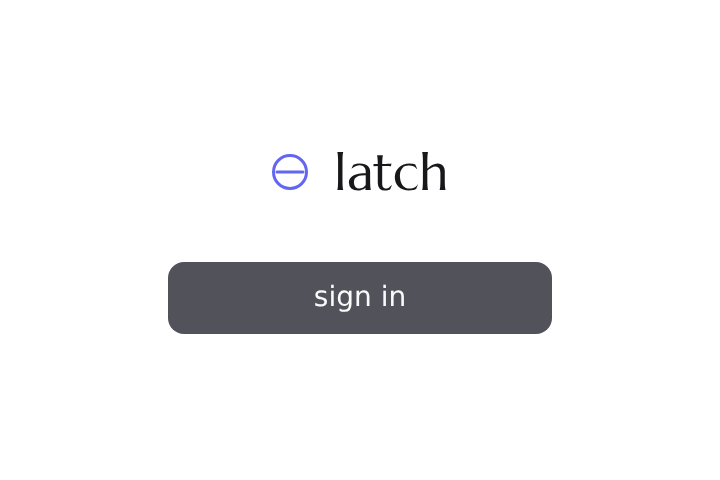
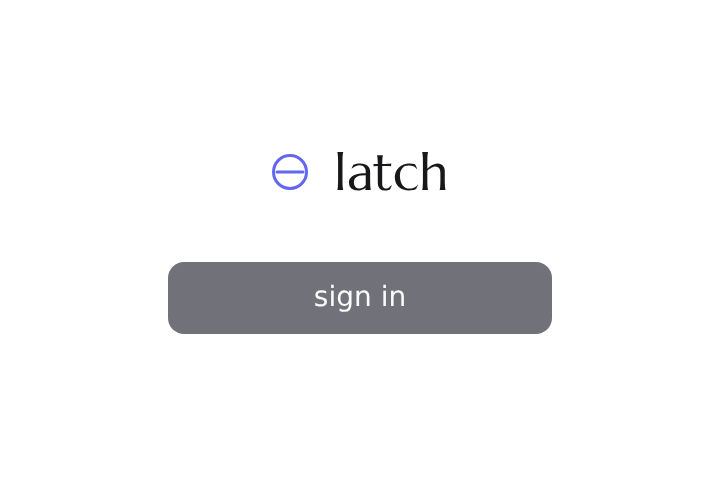
v0.1.2: rebalance button contrast per mode
Light mode: zinc-600 → zinc-500 (softer, less harsh dark on white).
Dark mode: zinc-400 → zinc-200 (brighter, no longer washed out).
Asymmetric on purpose — dark gets a clear primary button, light gets
a quieter neutral one. README screenshot regenerated.

Changed region(s): [[0.2139, 0.5312, 0.7639, 0.7188]]

diff --git a/src/page.html b/src/page.html
@@ -15,9 +15,9 @@
   --bg: #ffffff;
   --fg: #18181b;
   --soft: #71717a;
-  --btn-bg: #52525b;
+  --btn-bg: #71717a;        /* zinc-500 — softer than zinc-600 */
   --btn-fg: #fafafa;
-  --btn-bg-hover: #3f3f46;
+  --btn-bg-hover: #52525b;  /* zinc-600 on hover */
   --mark: #6366f1;
 }
 @media (prefers-color-scheme: dark) {
@@ -25,9 +25,9 @@
     --bg: #09090b;
     --fg: #f4f4f5;
     --soft: #a1a1aa;
-    --btn-bg: #a1a1aa;
+    --btn-bg: #e4e4e7;        /* zinc-200 — brighter, more contrast on black */
     --btn-fg: #18181b;
-    --btn-bg-hover: #d4d4d8;
+    --btn-bg-hover: #d4d4d8;  /* zinc-300 on hover */
     --mark: #818cf8;
   }
 }
